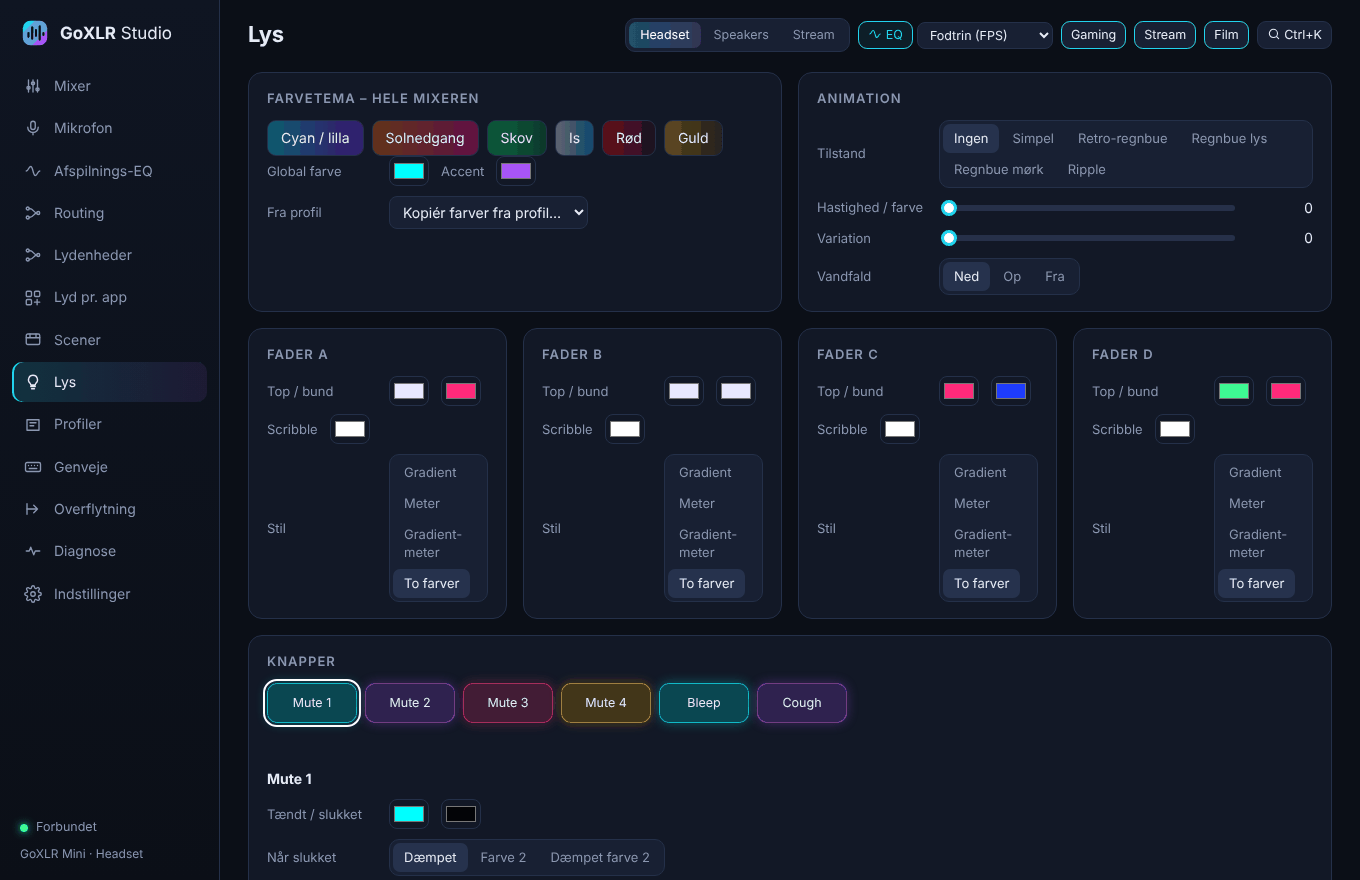
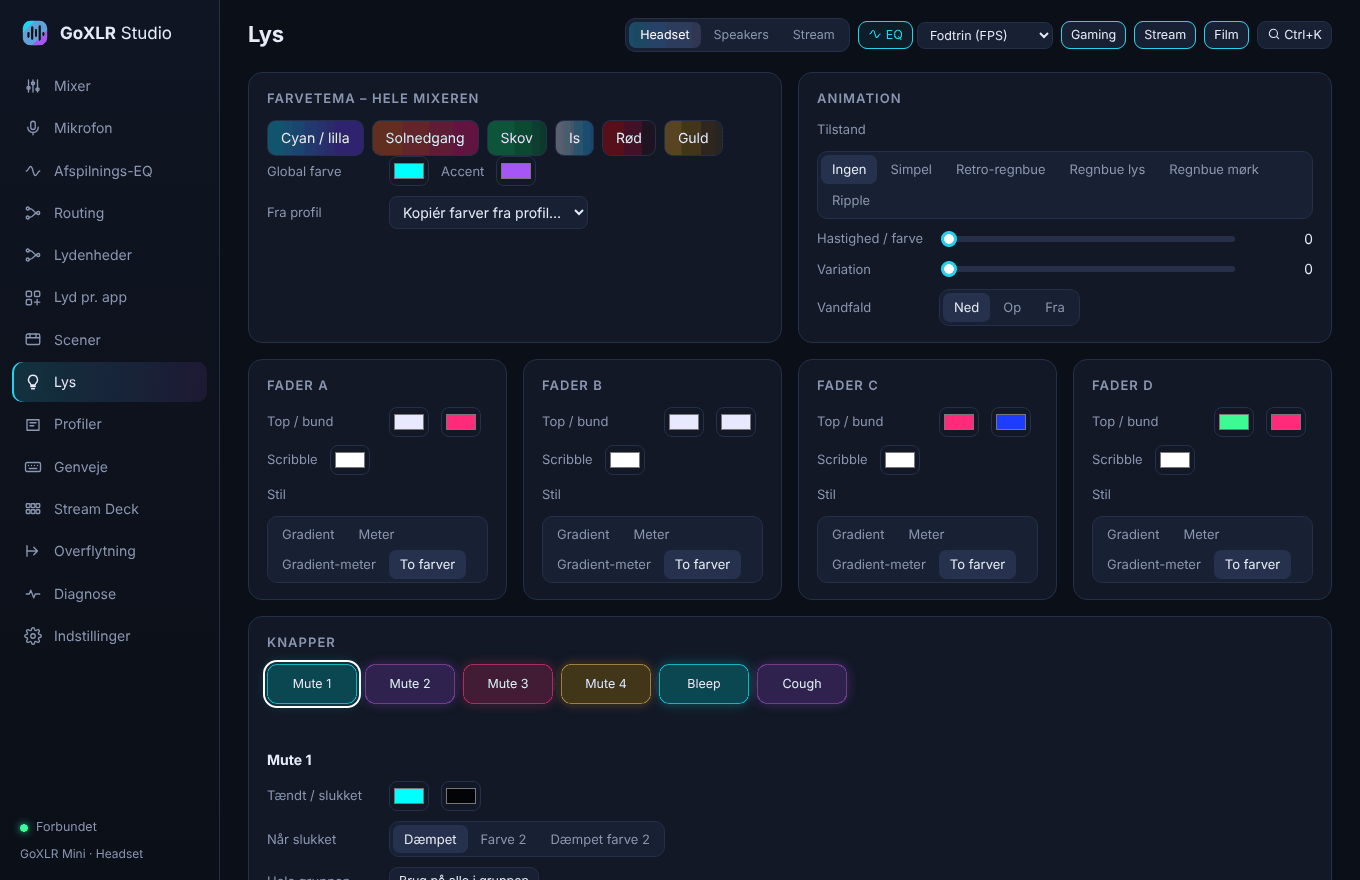
README: nye skærmbilleder med Stream Deck-siden [skip ci]
Alle billeder er taget igen (ny menu med "Stream Deck") og reduceret til
256 farver. scripts/screenshots.cjs svarer nu OK i appens egne dialoger
(de erstattede window.confirm i 0.4.3) og tager også stream-deck.png.

Claude-Session: https://claude.ai/code/session_01Gb4jBcjq8N1kApyY6GBwh1

diff --git a/README.md b/README.md
@@ -73,6 +73,8 @@ Når en genvej bruges, viser en lille boks øverst på skærmen i et sekund, hva
 
 ### Stream Deck
 
+![Stream Deck](docs/screenshots/stream-deck.png)
+
 Læg enhver handling på en tast på en Stream Deck, fx Streonor, Elgato eller Ulanzi. Siden **Stream Deck** viser alle handlinger, og du kopierer det, dit Stream Deck-program skal bruge:
 
 - et link (`goxlr-studio://action/…`) til handlingen "Website"
